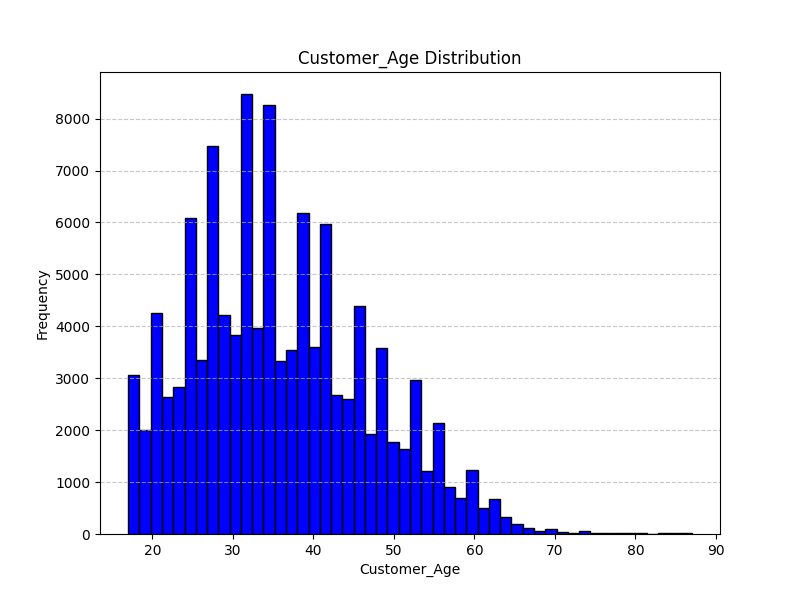
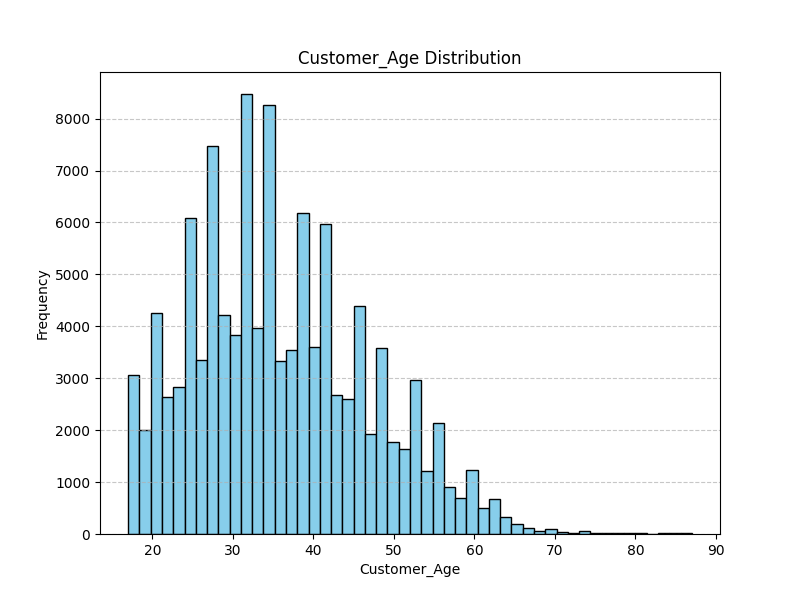
DS Project

Changed region(s): [[0.1562, 0.15, 0.6875, 0.9]]

diff --git a/DS Project task.py b/DS Project task.py
@@ -1,6 +1,3 @@
-# %%
-#pip install matplotlib
-#pip install pandas 
 
 # %%
 import pandas as pd
@@ -52,7 +49,7 @@ class DataAnalyzer:
             print(f"{column} Column not found")
             return
         plt.figure(figsize=(8,6))
-        plt.hist(df[column], bins=bins, color='blue', edgecolor='black')
+        plt.hist(df[column], bins=bins, color='skyblue', edgecolor='black')
         plt.title(f'{column} Distribution')
         plt.xlabel(column)
         plt.ylabel('Frequency')
@@ -77,6 +74,7 @@ class DataVisualizer:
         plt.ylabel("")
         plt.savefig(output_file)
         print("saved''{output_file}'")
+        print("gender counts",gender_counts)
         plt.show()
 visualizer = DataVisualizer()
 visualizer.gender_distribution()        
@@ -96,6 +94,7 @@ class DataVisualizer:
         plt.ylabel("Revenue")
         plt.xticks(rotation = 45)
         plt.savefig(output_file)
+        print("Age revenue:", age_group_revenue)
         print(f"Age group revenue chart '{output_file}")
         plt.show()
 visualizer = DataVisualizer()        
@@ -141,6 +140,7 @@ class DataVisualizer:
         plt.xticks(rotation=90)
         plt.grid(True)
         plt.savefig(output_file)
+        print('product profit:', product_profit_margin)
         print(f"Profit margin scatter plot saved as '{output_file}'.")
         plt.show()
 visualizer = DataVisualizer()
@@ -243,7 +243,3 @@ visualizer = DataVisualizer(df)
 visualizer.sub_category_performance(metric="Profit")
 visualizer.sub_category_performance(metric="Revenue", output_file="sub_category_revenue.png")
 
-
-
-
-# %%
